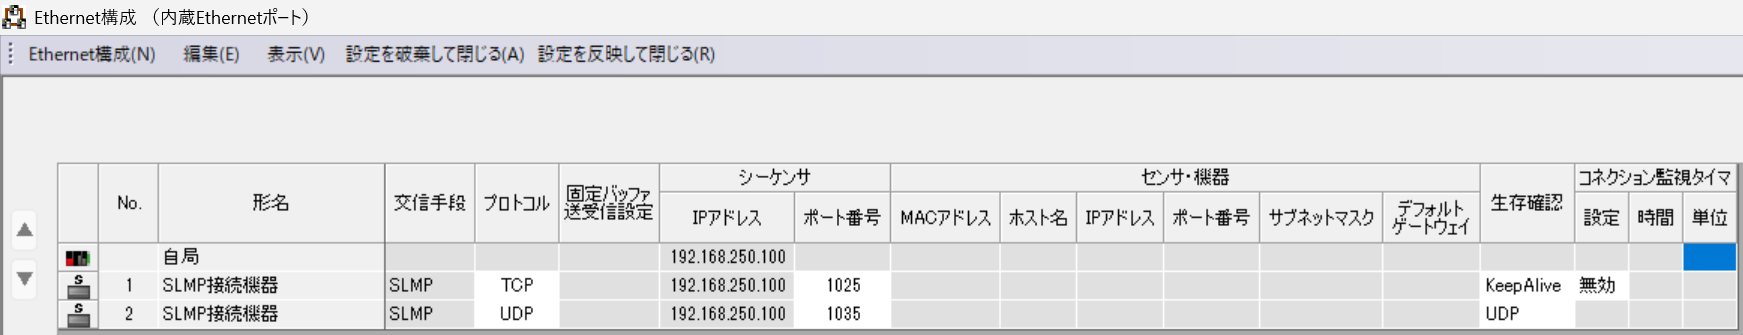
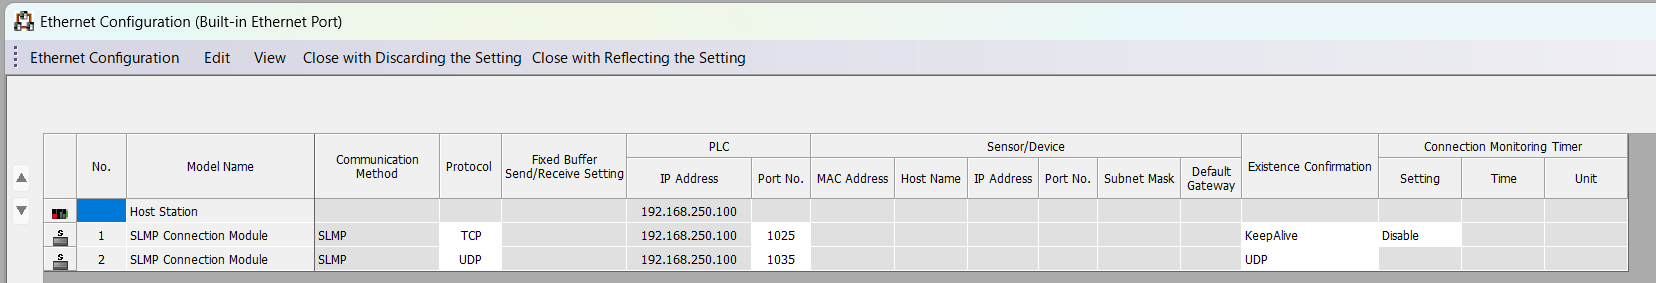
Refresh MX-R setup screenshots

Changed region(s): [[0.0, 0.0, 1.0, 1.0]]

diff --git a/docs/plc-setup/slmp/mx-r.md b/docs/plc-setup/slmp/mx-r.md
@@ -20,9 +20,6 @@ MELSEC MX-R — built-in Ethernet port (CPU module).
 
 MX-R uses its own canonical library profile (`melsec:mx-r`) while keeping iQ-R-compatible SLMP connection settings.
 
-!!! note "Connection reports wanted"
-    This project has not yet received live connection reports for the `melsec:mx-r` profile. If you use this profile, please report both successful and failed connection examples, including the PLC model, port setting, selected profile, and first SLMP end code when a connection fails.
-
 ### Screen: Unit parameters
 
 | Parameter | Setting |
@@ -93,11 +90,11 @@ library's Getting started.
 
 ## Screenshots
 
-![Unit parameters screen for the built-in Ethernet port](../images/slmp/mx-r/screenshot-01.png)
-*Unit parameters screen for the built-in Ethernet port.*
+![MXR300-32 IP address settings for the built-in Ethernet port](../images/slmp/mx-r/screenshot-01.png)
+*MXR300-32 IP address settings for the built-in Ethernet port.*
 
-![Connection settings screen for the first SLMP entry](../images/slmp/mx-r/screenshot-02.png)
-*Connection settings screen for the first SLMP entry.*
+![MXR300-32 basic settings and external device configuration](../images/slmp/mx-r/screenshot-02.png)
+*MXR300-32 basic settings and external device configuration.*
 
-![Connection settings screen for the second SLMP entry](../images/slmp/mx-r/screenshot-03.png)
-*Connection settings screen for the second SLMP entry.*
+![Built-in Ethernet configuration with TCP and UDP SLMP entries](../images/slmp/mx-r/screenshot-03.png)
+*Built-in Ethernet configuration with TCP port 1025 and UDP port 1035 SLMP entries.*
